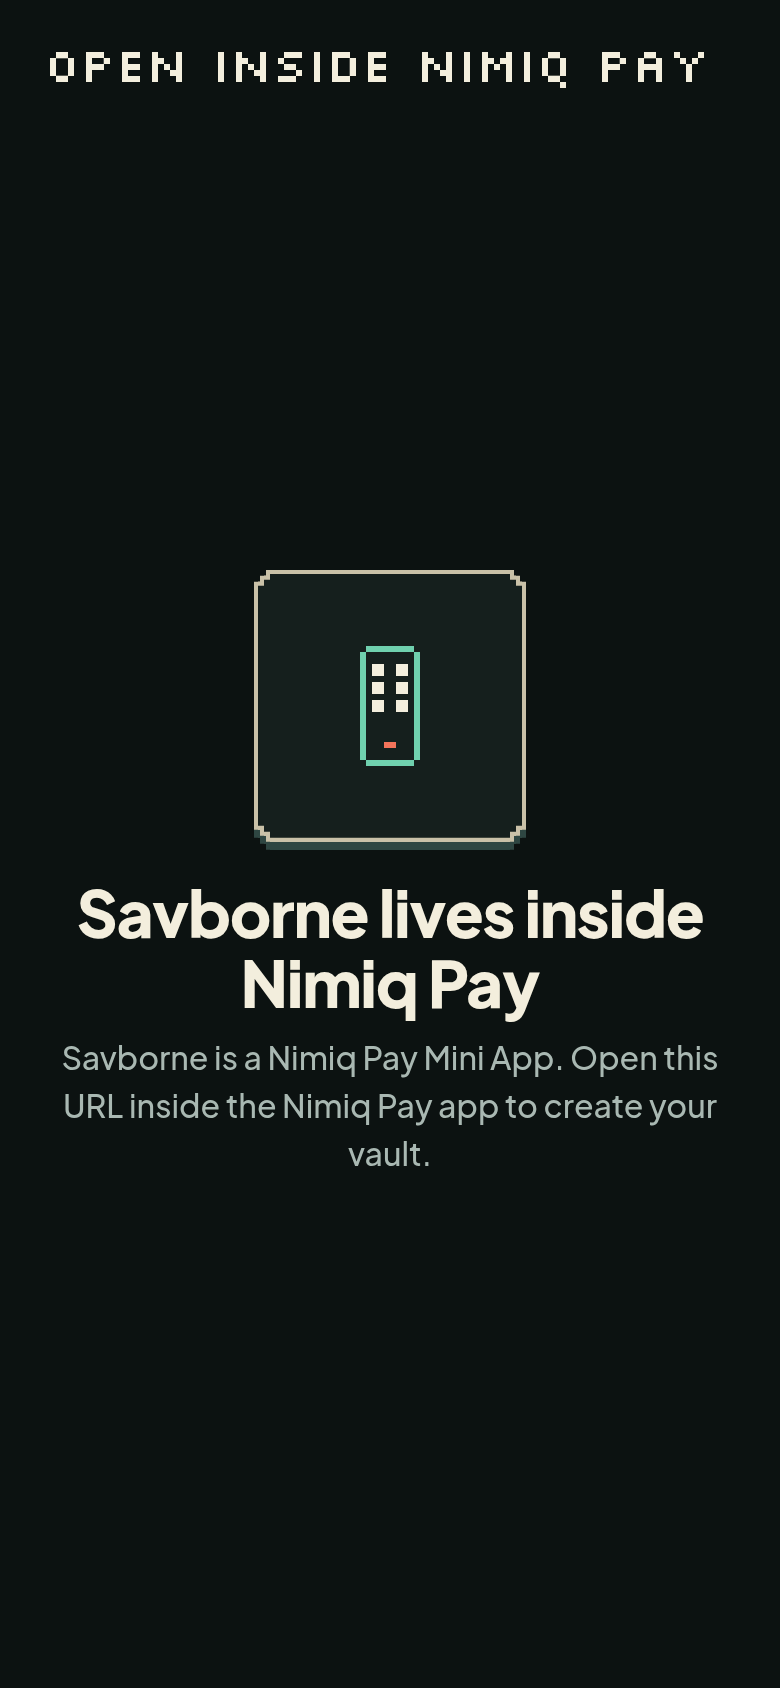
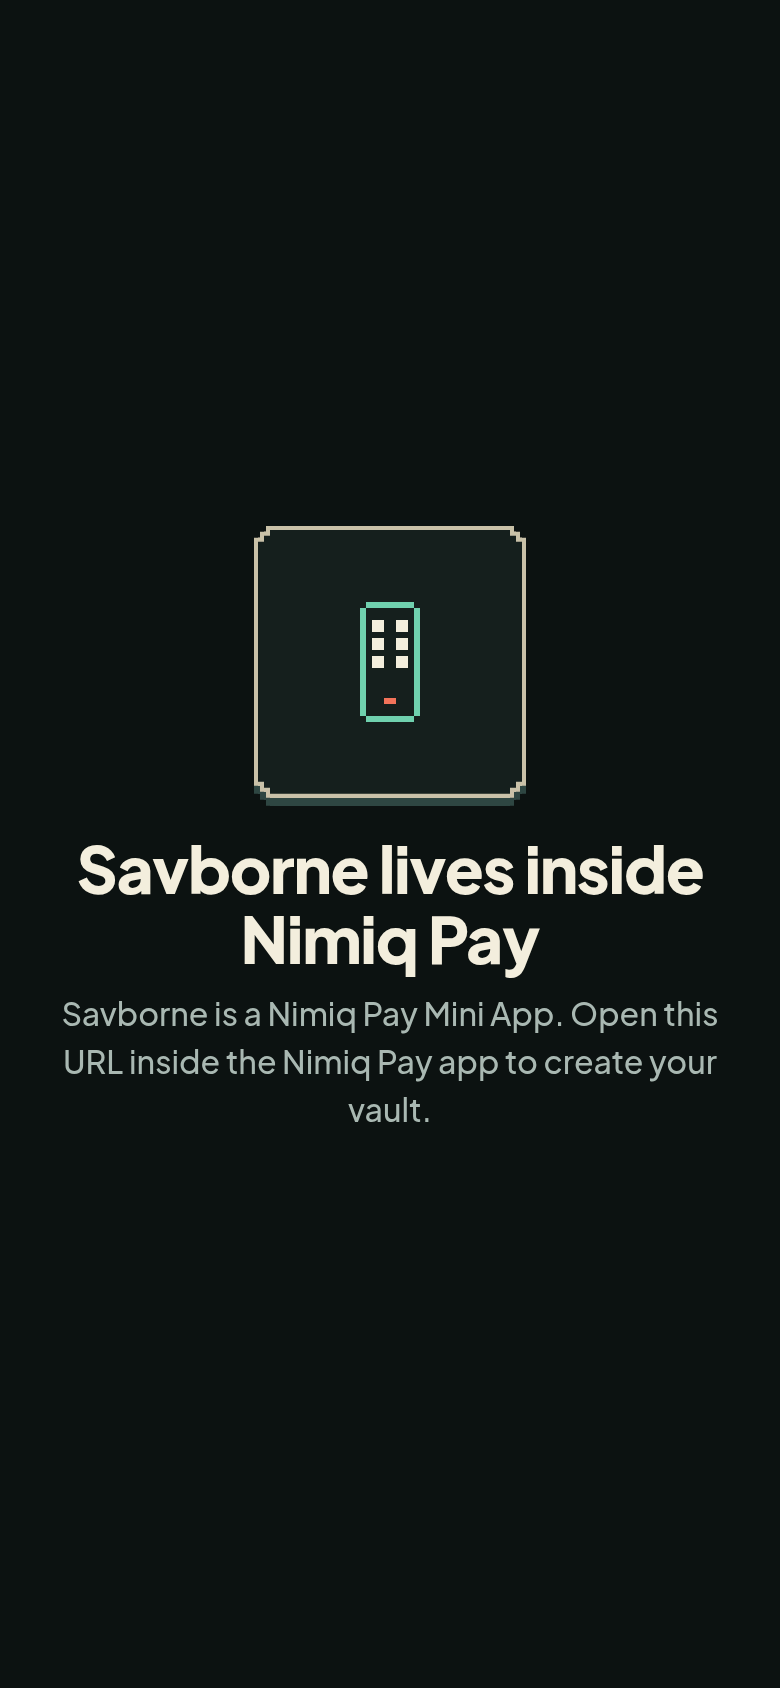
fix: drop the duplicate gate headers

diff --git a/src/components/VersionGate.tsx b/src/components/VersionGate.tsx
@@ -80,7 +80,6 @@ export function VersionGate({ children }: { children: ReactNode }) {
   if (state.phase === 'outside_nimiq') {
     return (
       <GateScreen
-        title="Open inside Nimiq Pay"
         icon={<Glyph name="phone" size={72} />}
         headline="Savborne lives inside Nimiq Pay"
         body="Savborne is a Nimiq Pay Mini App. Open this URL inside the Nimiq Pay app to create your vault."
@@ -91,7 +90,6 @@ export function VersionGate({ children }: { children: ReactNode }) {
   if (state.phase === 'update_required') {
     return (
       <GateScreen
-        title="Update Nimiq Pay"
         icon={<Glyph name="update" size={72} className="text-mint" />}
         headline="Update Nimiq Pay to continue"
         body="This version of Nimiq Pay can't share your vault balance with Savborne yet. Update it, then reopen Savborne. Nothing has been recorded."
@@ -125,14 +123,12 @@ export function VersionGate({ children }: { children: ReactNode }) {
 }
 
 function GateScreen({
-  title,
   icon,
   headline,
   body,
   reason,
   actions,
 }: {
-  title: string
   icon: ReactNode
   headline: string
   body: string
@@ -141,8 +137,6 @@ function GateScreen({
 }) {
   return (
     <ScreenShell variant="pushed" bodyClassName="gap-5 pt-0">
-      <span className="sv-number-m text-balance">{title}</span>
-
       <div className="flex flex-1 flex-col items-center justify-center gap-5 text-center">
         <PixelPanel className="w-[132px] h-[132px] flex items-center justify-center">
           {icon}

diff --git a/src/lib/version-gate.test.ts b/src/lib/version-gate.test.ts
@@ -25,12 +25,11 @@ test('Preparing is the brand mark and one line, with no spinner', () => {
   assert.doesNotMatch(checking, /sv-dots|animate-spin/)
 })
 
-test('Open inside Nimiq Pay has the phone panel and no CTA', () => {
+test('the outside state has the phone panel and no CTA', () => {
   const outside = GATE.slice(
     GATE.indexOf("phase === 'outside_nimiq'"),
     GATE.indexOf("phase === 'update_required'"),
   )
-  assert.match(outside, /Open inside Nimiq Pay/)
   assert.match(outside, /<Glyph name="phone" size=\{72\} \/>/)
   assert.match(outside, /Savborne lives inside Nimiq Pay/)
   assert.doesNotMatch(outside, /<Button/)
@@ -45,6 +44,12 @@ test('Update Nimiq Pay offers the site link and a retry', () => {
   assert.match(update, /I&apos;ve updated, try again/)
   assert.match(update, /<Glyph name="update" size=\{72\} className="text-mint" \/>/)
   assert.match(update, /setAttempt\(\(n\) => n \+ 1\)/)
+})
+
+test('the gate has no Silkscreen header above the centred headline', () => {
+  assert.doesNotMatch(GATE, /sv-number-m/)
+  assert.doesNotMatch(GATE, /title="Open inside Nimiq Pay"/)
+  assert.doesNotMatch(GATE, /title="Update Nimiq Pay"/)
 })
 
 test('a wallet error reason is a muted diagnostic line', () => {

diff --git a/docs/superpowers/audits/2026-11-05-ui-gap-audit.md b/docs/superpowers/audits/2026-11-05-ui-gap-audit.md
@@ -744,8 +744,9 @@ privacy consent, and adds the Nimiq Pay gate screens and `/balance-error`.
   check-in. Every other failure keeps the inline banner.
 - **Gate:** Preparing is the brand mark and one line with no spinner; Open
   inside Nimiq Pay is the phone panel with no CTA; Update Nimiq Pay has the
-  update arrow, the Nimiq site link and a retry that re-runs the check.
-  `/card/*` stays public.
+  update arrow, the Nimiq site link and a retry that re-runs the check. The
+  Open and Update screens have no top Silkscreen header: the centred headline
+  is the screen heading. `/card/*` stays public.
 - **Foundation additions:** `.sv-display-sm` (36), `.sv-heading-lg` (32),
   `.sv-subheading-lg` (32 Jakarta), `.sv-input`, `.sv-steps`, `BrandMark`,
   `StepBars` and the hand-drawn `phone` glyph from the handoff.
@@ -754,7 +755,7 @@ privacy consent, and adds the Nimiq Pay gate screens and `/balance-error`.
 
 | Check | Result |
 |---|---|
-| `npm test` | 344 pass, 0 fail |
+| `npm test` | 345 pass, 0 fail |
 | `npx tsc --noEmit` | clean |
 | `npm run lint` | exit 0, 50 warnings, 0 errors |
 | `npm run build` | exit 0, `/welcome`, `/connect`, `/privacy`, `/name`, `/balance-error` compiled |
@@ -775,8 +776,8 @@ privacy consent, and adds the Nimiq Pay gate screens and `/balance-error`.
 - Name: the title takes two lines; the 250px character panel, field, counter and
   error fit. The error state keeps the CTA on screen at 360.
 - Balance error: the 24px top title wraps and is balanced; both actions fit.
-- Gate: the outside top title balances to "OPEN INSIDE" / "NIMIQ PAY"; the
-  Update title fits one line and both actions fit.
+- Gate: the outside and update screens centre the panel, headline, body and
+  actions with no top header; both update actions fit at 360.
 
 ### Rulings
 
@@ -793,7 +794,8 @@ privacy consent, and adds the Nimiq Pay gate screens and `/balance-error`.
 - **Balance Error only for `rpc_unreachable`.** Other check-in failures keep the
   inline banner, where the copy is accurate.
 - **The gate stays one component with states.** A gate route would be gated
-  itself or need an exemption.
+  itself or need an exemption. The Open and Update screens have no top
+  Silkscreen header; the centred headline is the only heading.
 - **Update opens https://nimiq.com.** No app-store deep link exists in the repo.
 - **The privacy page scrolls.** The handoff pins the consent footer; at 360 the
   cards and a pinned footer would obscure text, so the footer sits at the end.

diff --git a/docs/superpowers/specs/2026-11-09-onboarding-ui-design.md b/docs/superpowers/specs/2026-11-09-onboarding-ui-design.md
@@ -252,20 +252,22 @@ One component, four phases, no new routes. Public `/card/*` stays exempt.
 
 - `checking`: centered `BrandMark` + "Preparing Savborne..." 16px muted; no
   spinner and no action.
-- `outside_nimiq`: top title "Open inside Nimiq Pay" in `.sv-number-m`, then a
-  centered 132px `PixelPanel` with a 72px `phone` glyph, `<h2 class="sv-subheading-lg">Savborne lives inside Nimiq Pay</h2>`
-  and the handoff body. No CTA.
-- `update_required`: top title "Update Nimiq Pay", centered 132px panel with the
-  `update` glyph at 72px mint, "Update Nimiq Pay to continue" and the handoff
-  body, then two actions:
+- `outside_nimiq`: a centered 132px `PixelPanel` with a 72px `phone` glyph,
+  `<h1 class="sv-subheading-lg">Savborne lives inside Nimiq Pay</h1>` and the
+  handoff body. The centred headline is the only heading; there is no top
+  Silkscreen header and no CTA.
+- `update_required`: a centered 132px panel with the `update` glyph at 72px
+  mint, the h1 "Update Nimiq Pay to continue" and the handoff body, then two
+  actions:
   - `ButtonLink href="https://nimiq.com" target="_blank" rel="noreferrer"` coral
     "Update Nimiq Pay".
   - `Button variant="secondary"` "I've updated, try again" that re-runs the
     check and returns to Preparing while it runs.
   - If a wallet error reason exists, show it as a small muted diagnostic line,
     not as the headline.
-- All gate screens use the handoff's 24px gutter and 22px side padding; the
-  Preparing state is vertically centered.
+- All gate screens use the handoff's 22px side padding; the Preparing state is
+  vertically centered. Open and Update centre the panel, headline, body and
+  actions with no top header.
 
 ### 6.2 Balance error - `/balance-error`
 

diff --git a/docs/superpowers/plans/2026-11-09-onboarding-ui.md b/docs/superpowers/plans/2026-11-09-onboarding-ui.md
@@ -667,14 +667,15 @@ action, full viewport, 22px gutters.
 
 - [ ] **Step 2: Outside Nimiq Pay**
 
-Top title "Open inside Nimiq Pay" in `.sv-number-m`. Centered 132px
-`PixelPanel`, `Glyph name="phone"` at 72px, `<h2 class="sv-subheading-lg">` and
-the handoff body. No CTA.
+Centered 132px `PixelPanel`, `Glyph name="phone"` at 72px,
+`<h1 class="sv-subheading-lg">Savborne lives inside Nimiq Pay</h1>` and the
+handoff body. The centred headline is the only heading; no top Silkscreen
+header and no CTA.
 
 - [ ] **Step 3: Update Nimiq Pay**
 
-Top title "Update Nimiq Pay". Centered 132px panel with the `update` glyph at
-72px mint, the handoff headline/body, then:
+Centered 132px panel with the `update` glyph at 72px mint, the h1
+"Update Nimiq Pay to continue" and the handoff body, then:
 
 ```tsx
 <ButtonLink href="https://nimiq.com" target="_blank" rel="noreferrer" variant="primary">

diff --git a/docs/superpowers/renders/onboarding/review/NOTES.md b/docs/superpowers/renders/onboarding/review/NOTES.md
@@ -94,7 +94,8 @@ Corrections:
   again leaves a one-shot `sessionStorage` flag; Home consumes it and runs one
   check-in. A blocked storage API leaves Home normal.
 - The gate remains one component with states, not routes. `/card/*` stays
-  public.
+  public. The Open and Update screens have no top Silkscreen header; the
+  centred headline is the screen heading.
 - The Settings privacy sheet now uses the same copy source and shows the notice
   version; its previous mojibake arrow is gone.
 - The real-device Nimiq Pay pass at 360-430 is still yours. `.env.local` is not
